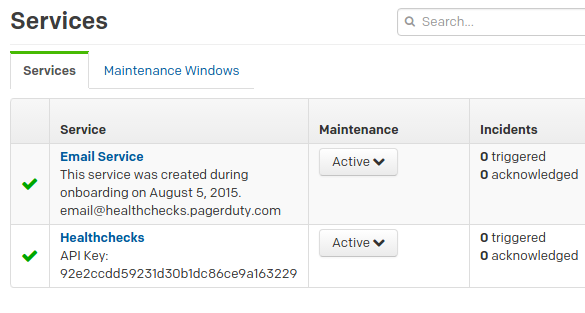
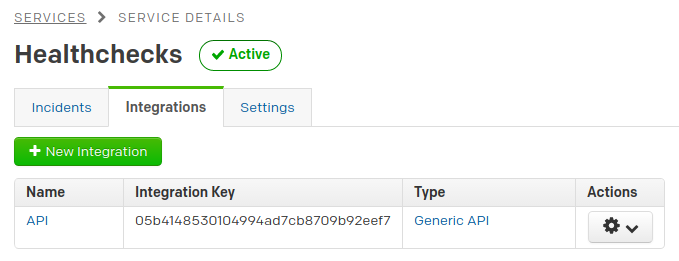
PagerDuty Integration Key is 32 characters long. Update screenshots.

diff --git a/templates/integrations/add_pd.html b/templates/integrations/add_pd.html
@@ -42,7 +42,7 @@
         <div class="col-sm-6">
             <span class="step-no">2</span>
             After adding the new service, take note of its
-            <strong>API key</strong>, a long string
+            <strong>Integration Key</strong>, a long string
             of letters and digits.
 
         </div>
@@ -57,7 +57,7 @@
     <div class="row ai-step">
         <div class="col-sm-6">
             <span class="step-no">3</span>
-            <p>Paste the API key down below. Save the integration, and it's done!</p>
+            <p>Paste the Integration Key down below. Save the integration, and it's done!</p>
         </div>
     </div>
 
@@ -66,8 +66,8 @@
     <form method="post" class="form-horizontal" action="{% url 'hc-add-pd' %}">
         {% csrf_token %}
         <div class="form-group {{ form.value.css_classes }}">
-            <label for="api-key" class="col-sm-2 control-label">API Key</label>
-            <div class="col-sm-3">
+            <label for="api-key" class="col-sm-2 control-label">Integration Key</label>
+            <div class="col-sm-4">
                 <input
                     id="api-key"
                     type="text"

diff --git a/hc/front/tests/test_add_pd.py b/hc/front/tests/test_add_pd.py
@@ -11,7 +11,8 @@ class AddPdTestCase(BaseTestCase):
         self.assertContains(r, "incident management system")
 
     def test_it_works(self):
-        form = {"value": "123456"}
+        # Integration key is 32 characters long
+        form = {"value": "12345678901234567890123456789012"}
 
         self.client.login(username="alice@example.org", password="password")
         r = self.client.post(self.url, form)

diff --git a/hc/front/forms.py b/hc/front/forms.py
@@ -36,11 +36,13 @@ class AddChannelForm(forms.ModelForm):
 
 class AddPdForm(forms.Form):
     error_css_class = "has-error"
-    value = forms.CharField(max_length=20)
+    value = forms.CharField(max_length=32)
+
 
 class AddOpsGenieForm(forms.Form):
     error_css_class = "has-error"
     value = forms.CharField(max_length=40)
+
 
 class AddEmailForm(forms.Form):
     error_css_class = "has-error"
